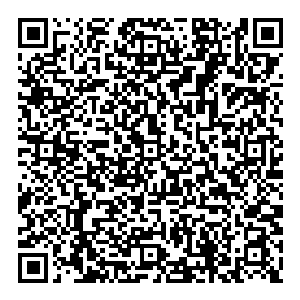
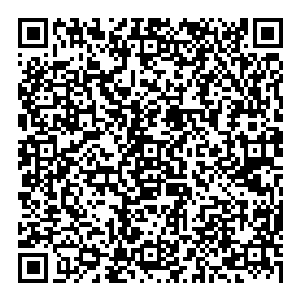
QR throttle: máximo uno cada 30 segundos

diff --git a/index.js b/index.js
@@ -17,6 +17,7 @@ app.use((req, res, next) => {
 let messages = [];
 let ready = false;
 let qrGenerated = false;
+let lastQrTime = 0;
 
 // Email transporter
 const transporter = process.env.EMAIL_USER ? nodemailer.createTransport({
@@ -32,10 +33,15 @@ const client = new Client({
 let currentQR = null;
 
 client.on('qr', async (qr) => {
-  if (!qrGenerated) {
+  const now = Date.now();
+  
+  if (!qrGenerated && (now - lastQrTime) > 30000) {
     currentQR = qr;
+    lastQrTime = now;
     console.log('📱 QR generado para conexión inicial');
-    console.log('QR String:', qr);
+    console.log('\n=== QR STRING ===');
+    console.log(qr);
+    console.log('=== FIN QR ===\n');
     
     if (transporter) {
       try {
@@ -53,6 +59,8 @@ client.on('qr', async (qr) => {
       }
     }
     qrGenerated = true;
+  } else if ((now - lastQrTime) <= 30000) {
+    console.log('⏱ QR throttled - esperando 30s');
   }
 });
 client.on('ready', () => { 

diff --git a/generate-qr.js b/generate-qr.js
@@ -1,6 +1,6 @@
 const qrcode = require('qrcode');
 
-const qrString = '2@XmjCFmK9h+Pr67Hpl6l9Q41jiGShV6zULYciQSIXu2THwSFzABNUwuk+EtBsKusZyeVvmVdQ+U/y0WIqHk8DD6RR2Gu0+lWvWWY=,OC3lWTOU49pAYHdZcpb9uwu8xWOlrT3DfjdVBp/mgB4=,2TPl1jCeuxbnIWPMMJ2yctbiyIP5Baj4VhZoXa+V/Dg=,W/Oi4i36BwY6WlJ5MVwrGnb/jw1813XWJ+1/4w/8Xlc=,1';
+const qrString = '2@wugXf2aLQrOVIxyEJN/EBhCFRAwi9NxmZZSHTNYqtR2pKf2oIylAT9s0UCvTG4N5wsl5c66G0HHWAp9Y3B9wQyGvSIu1medxf98=,cHIEXTsf8mFviEu1H4tTRWNBwod8QIW3MwVokIT7a0c=,OAUtS/hyqZhAnNxYr2/KIKn8urK5e1OtSAVUky31M0o=,rp8SGaRamyGsE9oP943TDXRrc6upFMtspFTdv4ffF24=,1"';
 
 qrcode.toFile('whatsapp-qr.png', qrString, { width: 300 }, (err) => {
   if (err) {
